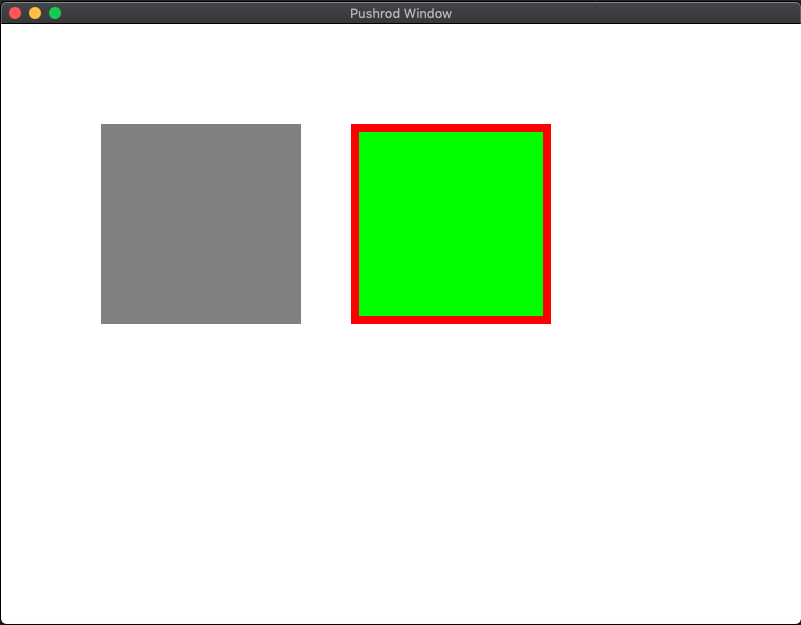
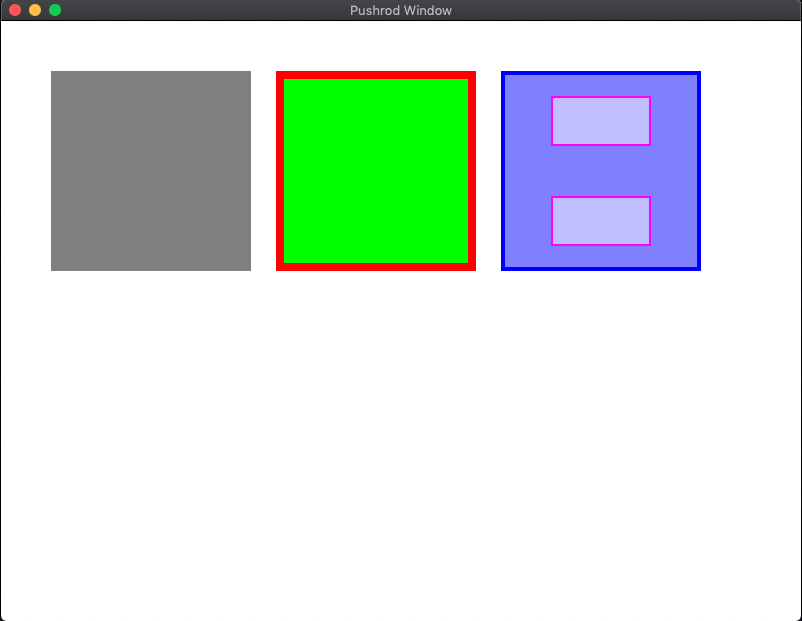
Added parent/child relationship - no child objects yet.

Changed region(s): [[0.0624, 0.0918, 0.8739, 0.5201], [0.0, 0.0, 1.0, 1.0]]

diff --git a/src/core/window.rs b/src/core/window.rs
@@ -18,6 +18,23 @@ use crate::widget::widget::*;
 
 use piston_window::*;
 
+// Stores the parent-child relationship.  Both are IDs.  If the ID is 0, it indicates the base
+// object.  Children with an ID of 0 indicates no child objects.
+struct ParentChildRelationship {
+    parent: i32,
+    child: i32,
+}
+
+/// This is a container object, used for storing the `Widget` trait object, and the parent-child
+/// relationship for the added `Widget`.  Only the `widget` is public.
+pub struct WidgetContainer {
+    /// The `Widget` trait object being stored.
+    pub widget: Box<dyn Widget>,
+
+    /// The parent-child relationship, used for determining drawing order.
+    pcr: ParentChildRelationship,
+}
+
 /// This structure contains a window and its corresponding onscreen widgets.  These objects
 /// are stored in the Pushrod main loop.
 pub struct PushrodWindow {
@@ -25,7 +42,7 @@ pub struct PushrodWindow {
     pub window: PistonWindow,
 
     /// A vector list of Boxed `PushrodWidget` trait objects.
-    pub widgets: Vec<Box<dyn Widget>>,
+    pub widgets: Vec<WidgetContainer>,
 }
 
 /// Implementation for a new `PushrodWindow`.  When a new `PushrodWindow` is added to the
@@ -36,11 +53,17 @@ impl PushrodWindow {
     /// widget to the list that is a white container widget.  This is the base for all other widgets
     /// tht will be added to the window.
     pub fn new(window: PistonWindow) -> Self {
-        let mut widgets_list: Vec<Box<dyn Widget>> = Vec::new();
+        let mut widgets_list: Vec<WidgetContainer> = Vec::new();
         let mut base_widget = BaseWidget::new();
 
         base_widget.set_size(crate::core::point::Size { w: 800, h: 600 });
-        widgets_list.push(Box::new(base_widget));
+        widgets_list.push(WidgetContainer {
+            widget: Box::new(base_widget),
+            pcr: ParentChildRelationship {
+                parent: 0,
+                child: 0,
+            }
+        });
 
         Self {
             window,
@@ -48,9 +71,51 @@ impl PushrodWindow {
         }
     }
 
-    /// Adds a UI widget to this window.
-    pub fn add_widget(&mut self, widget: Box<dyn Widget>) {
-        self.widgets.push(widget);
+    /// Adds a UI `Widget` to this window.  `Widget` objects that are added using this method will
+    /// be part of the base widget (`id = 0`), and will be force-redrawn when the parent is
+    /// invalidated.
+    ///
+    /// After adding a widget, the ID of the widget is returned.
+    pub fn add_widget(&mut self, widget: Box<dyn Widget>) -> i32 {
+        let widget_size = self.widgets.len() as i32;
+
+        self.widgets.push(WidgetContainer {
+            widget,
+            pcr: ParentChildRelationship {
+                parent: 0,
+                child: 0,
+            }
+        });
+
+        widget_size
+    }
+
+    /// Adds a UI `Widget` to the parent of a window, specified by the `parent_id`.  The `parent_id`
+    /// must be an object that already exists in the stack.
+    ///
+    /// After adding a widget, the ID of the widget is returned.
+    pub fn add_widget_to_parent(&mut self, widget: Box<dyn Widget>, parent_id: i32) -> i32 {
+        // TODO Validate parent_id
+        let widget_size = self.widgets.len() as i32;
+
+        self.widgets.push(WidgetContainer {
+            widget,
+            pcr: ParentChildRelationship {
+                parent: parent_id,
+                child: 0,
+            }
+        });
+
+        widget_size
+    }
+
+    /// Retrieves the parent of the widget requested.  Parent of 0 or -1 will always return 0.
+    pub fn get_parent_of(&mut self, widget_id: i32) -> i32 {
+        if widget_id <= 0 {
+            0
+        } else {
+            self.widgets[widget_id as usize].pcr.parent
+        }
     }
 
     // TODO Need to fix to walk children instead of one by one.  Walking children will be far more accurate.
@@ -61,8 +126,8 @@ impl PushrodWindow {
         let mut found_id: i32 = -1;
 
         for (pos, obj) in self.widgets.iter_mut().enumerate() {
-            let widget_point = &obj.get_origin();
-            let widget_size: crate::core::point::Size = obj.get_size();
+            let widget_point = &obj.widget.get_origin();
+            let widget_size: crate::core::point::Size = obj.widget.get_size();
 
             if point.x >= widget_point.x
                 && point.x <= widget_point.x + widget_size.w
@@ -78,21 +143,21 @@ impl PushrodWindow {
 
     /// Callback to `mouse_entered` for a `Widget` by ID.
     pub fn mouse_entered_for_id(&mut self, id: i32) {
-        &self.widgets[id as usize].mouse_entered(id);
+        &self.widgets[id as usize].widget.mouse_entered(id);
     }
 
     /// Callback to `mouse_exited` for a `Widget` by ID.
     pub fn mouse_exited_for_id(&mut self, id: i32) {
-        &self.widgets[id as usize].mouse_exited(id);
+        &self.widgets[id as usize].widget.mouse_exited(id);
     }
 
     /// Callback to `mouse_scrolled` for a `Widget` by ID, with the mouse scroll `Point`.
     pub fn mouse_scrolled_for_id(&mut self, id: i32, point: Point) {
-        &self.widgets[id as usize].mouse_scrolled(id, point);
+        &self.widgets[id as usize].widget.mouse_scrolled(id, point);
     }
 
     /// Retrieves a reference to the `Box`ed `Widget` object by its ID.
     pub fn get_widget_for_id(&mut self, id: i32) -> &Box<dyn Widget> {
-        &self.widgets[id as usize]
+        &self.widgets[id as usize].widget
     }
 }

diff --git a/examples/simple.rs b/examples/simple.rs
@@ -78,18 +78,42 @@ fn main() {
     pushrod_window.window.set_ups(60);
 
     let mut base_widget = BaseWidget::new();
-    base_widget.set_origin(Point { x: 100, y: 100 });
+    base_widget.set_origin(Point { x: 50, y: 50 });
     base_widget.set_size(pushrod::core::point::Size { w: 200, h: 200 });
     base_widget.set_color([0.5, 0.5, 0.5, 1.0]);
     pushrod_window.add_widget(Box::new(base_widget));
 
     let mut box_widget = BoxWidget::new();
-    box_widget.set_origin(Point { x: 350, y: 100 });
+    box_widget.set_origin(Point { x: 275, y: 50 });
     box_widget.set_size(pushrod::core::point::Size { w: 200, h: 200 });
     box_widget.set_color([0.0, 1.0, 0.0, 1.0]);
     box_widget.set_border_color([1.0, 0.0, 0.0, 1.0]);
     box_widget.set_border_thickness(4);
     pushrod_window.add_widget(Box::new(box_widget));
+
+    let mut box_1 = BoxWidget::new();
+    box_1.set_origin(Point { x: 500, y: 50 });
+    box_1.set_size(pushrod::core::point::Size { w: 200, h: 200 });
+    box_1.set_color([0.5, 0.5, 1.0, 1.0]);
+    box_1.set_border_color([0.0, 0.0, 1.0, 1.0]);
+    box_1.set_border_thickness(2);
+    let box_1_id = pushrod_window.add_widget(Box::new(box_1));
+
+    let mut box_2 = BoxWidget::new();
+    box_2.set_origin(Point { x: 550, y: 75 });
+    box_2.set_size(pushrod::core::point::Size { w: 100, h: 50 });
+    box_2.set_color([0.75, 0.75, 1.0, 1.0]);
+    box_2.set_border_color([1.0, 0.0, 1.0, 1.0]);
+    box_2.set_border_thickness(1);
+    pushrod_window.add_widget_to_parent(Box::new(box_2), box_1_id);
+
+    let mut box_3 = BoxWidget::new();
+    box_3.set_origin(Point { x: 550, y: 175 });
+    box_3.set_size(pushrod::core::point::Size { w: 100, h: 50 });
+    box_3.set_color([0.75, 0.75, 1.0, 1.0]);
+    box_3.set_border_color([1.0, 0.0, 1.0, 1.0]);
+    box_3.set_border_thickness(1);
+    pushrod_window.add_widget_to_parent(Box::new(box_3), box_1_id);
 
     prod.add_window(pushrod_window);
     prod.add_event_listener_for_window(Box::new(ExampleListener::new()));

diff --git a/src/core/main.rs b/src/core/main.rs
@@ -273,6 +273,7 @@ impl Pushrod {
                         self.internal_handle_mouse_move(mouse_point.clone());
 
                         let current_widget_id = pushrod_window.get_widget_id_for_point(mouse_point);
+                        let current_parent_for_widget = pushrod_window.get_parent_of(current_widget_id);
 
                         if current_widget_id != last_widget_id {
                             if last_widget_id != -1 {
@@ -285,6 +286,8 @@ impl Pushrod {
                                 pushrod_window.mouse_entered_for_id(last_widget_id);
                             }
                         }
+
+                        eprintln!("Widget IDs: current={} parent={}", current_widget_id, current_parent_for_widget);
                     }
                 }
 
@@ -312,8 +315,8 @@ impl Pushrod {
 
                     gl.draw(args.viewport(), |context, graphics| {
                         pushrod_window.widgets.iter_mut().for_each(|widget| {
-                            if widget.is_invalidated() {
-                                widget.draw(context, graphics);
+                            if widget.widget.is_invalidated() {
+                                widget.widget.draw(context, graphics);
                                 require_buffer_swap = true;
                             }
                         });

diff --git a/src/widget/widget.rs b/src/widget/widget.rs
@@ -90,6 +90,7 @@ pub trait Widget {
     /// ```
     /// # use pushrod::widget::widget::Widget;
     /// # use pushrod::widget::widget::WidgetConfig;
+    /// # use pushrod::widget::widget::ConfigKey;
     /// # use std::collections::HashMap;
     /// # use std::cell::RefCell;
     /// struct MyWidget {
@@ -284,7 +285,18 @@ impl BaseWidget {
 ///    base_widget.set_color([0.5, 0.5, 0.5, 1.0]);
 ///
 ///    // Widgets must be boxed, as they are trait objects.
-///    pushrod_window.add_widget(Box::new(base_widget));
+///    let widget_id = pushrod_window.add_widget(Box::new(base_widget));
+///
+///    eprintln!("Added widget: ID={}", widget_id);
+///
+///    let mut base_widget_2 = BaseWidget::new();
+///
+///    base_widget_2.set_origin(Point { x: 125, y: 125 });
+///    base_widget_2.set_size(pushrod::core::poiNt::Size { w: 100, h: 100 });
+///    base_widget_2.set_color([0.75, 0.75, 0.75, 1.0]);
+///
+///    // Add the second widget to the top level base widget.
+///    let widget_id_2 = pushrod_window.add_widget_to_parent(Box::new(base_widget_2, widget_id);
 /// # }
 /// ```
 impl Widget for BaseWidget {

diff --git a/ROADMAP.md b/ROADMAP.md
@@ -19,10 +19,11 @@
   - [x] Implement invalidate in draw cycle
   - [x] Use window.window.swap_buffers() only after drawing the screen with invalidated items
   - [ ] Improve mutability in Pushrod Window for triggering events
-  - [ ] Add parent/child relationship
+  - [x] Add parent/child relationship
   - [ ] Walk children when parent signals an invalidate
   - [ ] Invalidated child should draw subchildren as well, but not parent
-  - [ ] Extend Widget Store to keep track of (parent, child)
+  - [ ] Create a Widget Store that stores the widget and the parent/child relationship
+  - [x] Extend Widget Store to keep track of (parent, child)
 - [ ] Improve Signal Events
   - [ ] Implement signal masks so widgets can decide which signals to receive
   - [ ] Implement for Mouse Click (Single click)

diff --git a/RELEASE_NOTES.md b/RELEASE_NOTES.md
@@ -3,6 +3,12 @@
 ## 0.1.7
 
 - Changed Widget to use ConfigKey type instead of u8, as this might change in a later release.
+- Added parent/child relationship to window store.
+- Added function to retrieve parent based on widget ID.
+- Created widget store to store the widget (boxed) and parent/child relationship.
+- Adding a widget now returns its widget ID.
+- Fixed breaking test after changing to ConfigKey type.
+- Updated examples to include widget ID and parent add.
 
 ## 0.1.6
 
